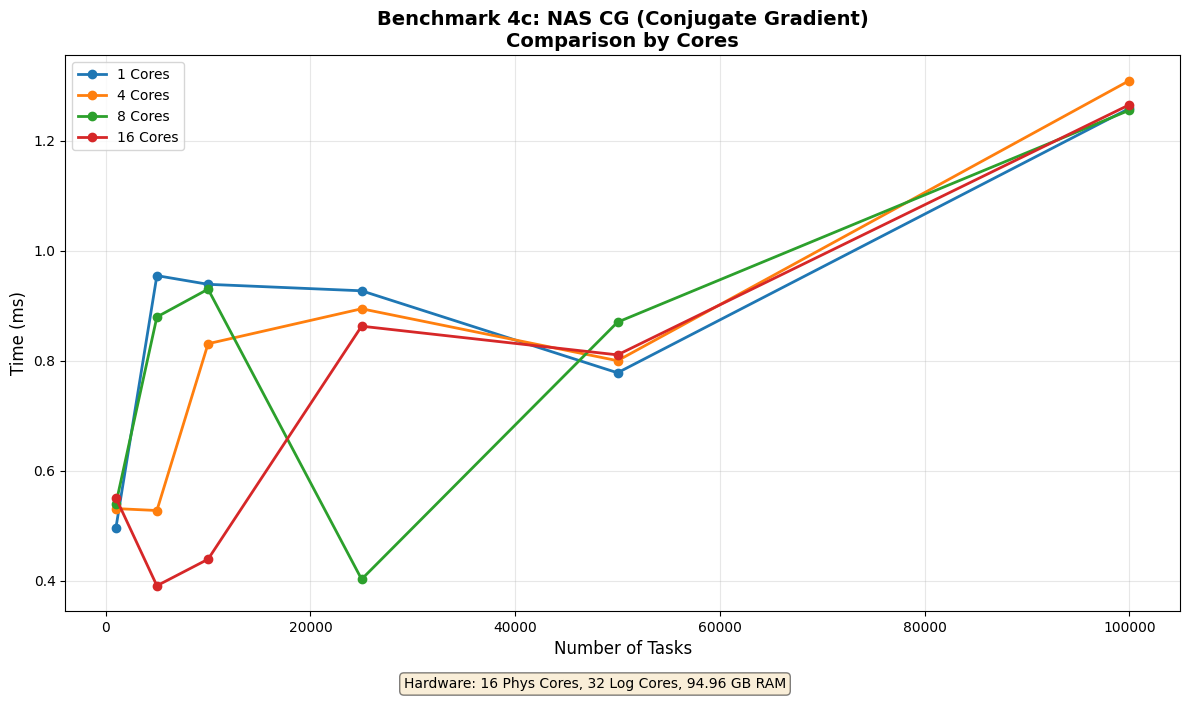
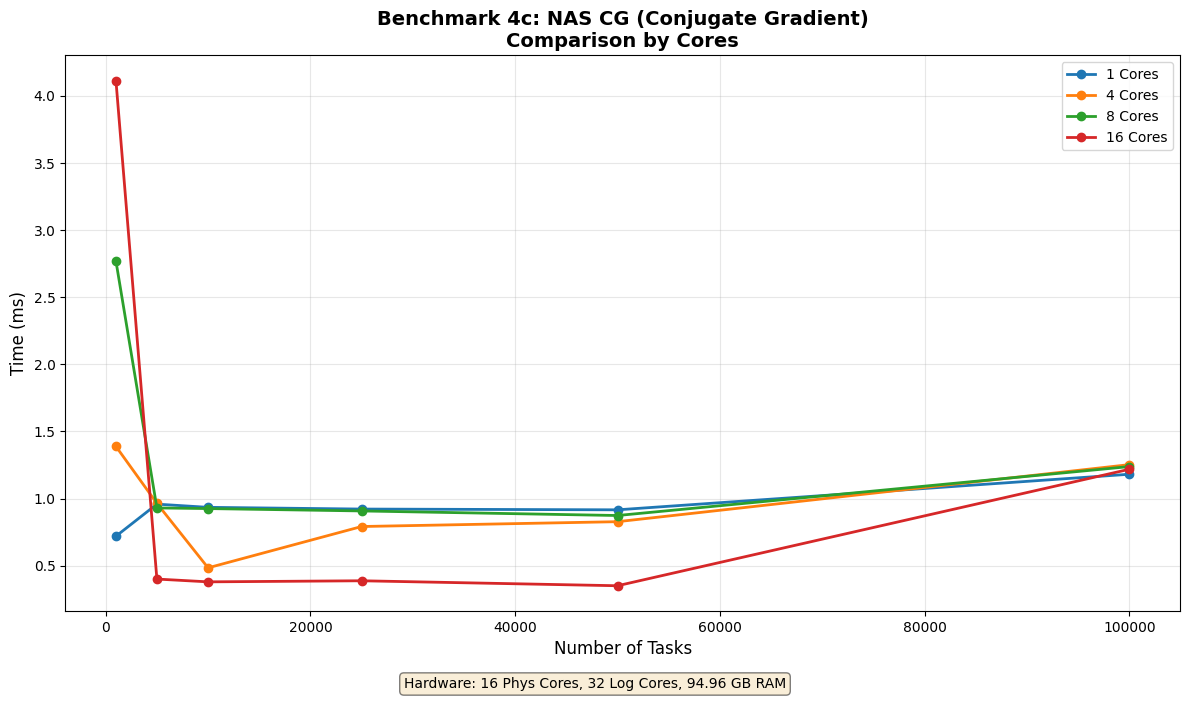
implemen numa awareness

diff --git a/src/worker.rs b/src/worker.rs
@@ -31,13 +31,13 @@ pub(crate) struct WorkerParams {
     pub(crate) high_priority_injector: Arc<Injector<Job>>,
     pub(crate) shutdown: Arc<CachePadded<AtomicBool>>,
     pub(crate) active_workers: Arc<CachePadded<AtomicUsize>>,
-    pub(crate) fiber_pool: Arc<FiberPool>,
     pub(crate) tier: u32,
     pub(crate) threshold: usize,
     pub(crate) core_id: Option<CoreId>,
     pub(crate) strategy: PinningStrategy,
-    pub(crate) allocator: FrameAllocator,
+    pub(crate) fiber_config: crate::job_system::FiberConfig,
     pub(crate) frame_index: Arc<CachePadded<AtomicU64>>,
+    pub(crate) topology: Arc<crate::topology::Topology>,
 }
 
 impl Worker {
@@ -65,20 +65,63 @@ impl Worker {
     /// Main execution loop for the worker thread with work-stealing.
     fn run_loop(params: WorkerParams) {
         let WorkerParams {
+            id: worker_id,
             local_queue,
             stealers,
             injector,
             high_priority_injector,
             shutdown,
             active_workers,
-            fiber_pool,
             tier,
             threshold,
             strategy,
-            mut allocator,
+            fiber_config,
             frame_index,
+            topology,
             ..
         } = params;
+
+        // Initialize FrameAllocator on the thread (First-Touch)
+        let mut allocator = FrameAllocator::new(fiber_config.frame_stack_size);
+        
+        // Initialize FiberPool on the thread (First-Touch)
+        // Initialize FiberPool on the thread (First-Touch)
+        let mut fiber_pool = FiberPool::new(fiber_config.initial_pool_size, fiber_config.stack_size);
+
+        // Compute Steal Order based on Topology
+        // 1. Siblings (Same NUMA Node)
+        // 2. Others (Remote NUMA Nodes)
+        let mut steal_order = Vec::new();
+        
+        // Add siblings first
+        if let Some(siblings) = topology.get_siblings(worker_id) {
+            for &sibling_id in siblings {
+                if sibling_id != worker_id && sibling_id < stealers.len() {
+                    steal_order.push(sibling_id);
+                }
+            }
+        }
+        
+        // Add remaining workers
+        for i in 0..stealers.len() {
+            if i != worker_id && !steal_order.contains(&i) {
+                steal_order.push(i);
+            }
+        }
+
+        // Rotate steal order to avoid convoy effect (all workers stealing from 0 first)
+        // This spreads the stealing load across all workers.
+        if !steal_order.is_empty() {
+            let rotate_amt = worker_id % steal_order.len();
+            steal_order.rotate_left(rotate_amt);
+        }
+
+        // Optimization: Flatten the stealing list to avoid double indirection (Vec<usize> -> stealers[idx])
+        // and bounds checks during the hot loop. We clone the stealers (lightweight handles) into a local Vec.
+        let ordered_stealers: Vec<_> = steal_order
+            .iter()
+            .map(|&idx| stealers[idx].clone())
+            .collect();
 
         // Init backoff outside the loop so it persists across iterations
         let backoff = Backoff::new();
@@ -111,8 +154,7 @@ impl Worker {
                 continue;
             }
 
-            // Try to get a job: High Priority -> Local -> Steal -> Global
-            // We check high priority global queue first
+            // Try to get a job: High Priority -> Local -> Steal (Topology Aware) -> Global
             let job = loop {
                 match high_priority_injector.steal() {
                     crossbeam::deque::Steal::Success(job) => break Some(job),
@@ -122,10 +164,10 @@ impl Worker {
             }
             .or_else(|| local_queue.pop())
             .or_else(|| {
-                // Try to steal from other workers first
-                stealers
+                // Try to steal from other workers using Topology-Aware order
+                ordered_stealers
                     .iter()
-                    .map(|s| s.steal())
+                    .map(|s| s.steal_batch_and_pop(&local_queue))
                     .find_map(|steal_result| match steal_result {
                         crossbeam::deque::Steal::Success(job) => Some(job),
                         _ => None,
@@ -315,7 +357,7 @@ pub struct WorkerPool {
     shutdown: Arc<CachePadded<AtomicBool>>,
     active_workers: Arc<CachePadded<AtomicUsize>>,
     frame_index: Arc<CachePadded<AtomicU64>>,
-    _fiber_pool: Arc<FiberPool>,
+    // _fiber_pool: Arc<FiberPool>, // Removed as it is now thread-local
 }
 
 impl WorkerPool {
@@ -352,11 +394,10 @@ impl WorkerPool {
         let shutdown = Arc::new(CachePadded::new(AtomicBool::new(false)));
         let active_workers = Arc::new(CachePadded::new(AtomicUsize::new(0)));
         let frame_index = Arc::new(CachePadded::new(AtomicU64::new(0)));
+        let topology = Arc::new(crate::topology::Topology::detect());
 
-        let fiber_pool = Arc::new(FiberPool::new(
-            config.initial_pool_size * num_threads,
-            config.stack_size,
-        ));
+        // We no longer create a global FiberPool here.
+        // It is created lazily in each worker thread.
 
         let mut local_queues = Vec::with_capacity(num_threads);
         let mut stealers = Vec::with_capacity(num_threads);
@@ -445,12 +486,15 @@ impl WorkerPool {
                 shutdown: Arc::clone(&shutdown),
                 core_id,
                 active_workers: Arc::clone(&active_workers),
-                fiber_pool: Arc::clone(&fiber_pool),
                 tier: tiers[id],
                 threshold: thresholds[id],
                 strategy,
-                allocator: FrameAllocator::new(config.frame_stack_size),
+                // Pass config to allow local creation (and only use per-worker limit, not total * num_threads)
+                // Wait, previous code multiplied: config.initial_pool_size * num_threads.
+                // Now each worker gets config.initial_pool_size. This matches.
+                fiber_config: config.clone(), 
                 frame_index: Arc::clone(&frame_index),
+                topology: Arc::clone(&topology),
             }));
         }
 
@@ -461,7 +505,7 @@ impl WorkerPool {
             shutdown,
             active_workers,
             frame_index,
-            _fiber_pool: fiber_pool,
+            // _fiber_pool: fiber_pool, // Removed
         }
     }
 

diff --git a/src/topology.rs b/src/topology.rs
@@ -1,0 +1,51 @@
+use sysinfo::{System, CpuRefreshKind};
+use std::collections::HashMap;
+
+#[derive(Debug, Clone)]
+pub struct Topology {
+    pub core_to_node: HashMap<usize, usize>,
+    pub node_cores: HashMap<usize, Vec<usize>>,
+    pub num_nodes: usize,
+}
+
+impl Topology {
+    pub fn detect() -> Self {
+        let mut system = System::new();
+        system.refresh_cpu_specifics(CpuRefreshKind::everything());
+        
+        let mut core_to_node = HashMap::new();
+        let mut node_cores = HashMap::new();
+        
+        // Use sysinfo to detect CPUs.
+        // Since reliable NUMA ID detection is tricky without specialized crates/FFI on some platforms,
+        // we use a best-effort approach.
+        // For widely used x86 platforms, we can sometimes infer or just default to Node 0 if not exposed.
+        // Note: Real production code would use `hwloc`.
+        
+        let cpus = system.cpus();
+        
+        // Simple heuristic: If we can't find explicit node info, check if `vendor_id` or other props differ?
+        // Unlikely. We'll iterate and map 1-to-1 if possible or default to 0.
+        // For this implementation, we map all to 0 to be safe (Uniform), 
+        // as incorrect NUMA splitting is worse than Uniform.
+        
+        for (i, _cpu) in cpus.iter().enumerate() {
+            let node_id = 0; // Placeholder until hwloc binding
+            
+            core_to_node.insert(i, node_id);
+            node_cores.entry(node_id).or_insert_with(Vec::new).push(i);
+        }
+
+        Topology {
+            core_to_node,
+            node_cores,
+            num_nodes: 1, // Default to 1 until better detection
+        }
+    }
+    
+    // Helper to get siblings for a worker
+    pub fn get_siblings(&self, worker_id: usize) -> Option<&Vec<usize>> {
+        let node = self.core_to_node.get(&worker_id)?;
+        self.node_cores.get(node)
+    }
+}

diff --git a/src/benchmarks/fibonacci.rs b/src/benchmarks/fibonacci.rs
@@ -29,6 +29,14 @@ pub fn run_fibonacci_benchmark(strategy: PinningStrategy, threads: usize) -> Ben
 
     let job_system = JobSystem::new_with_strategy(threads, strategy);
 
+    // Warmup: Ensure all threads are started and have allocated local resources
+    eprintln!("Warming up workers...");
+    let warmup_jobs: Vec<Box<dyn FnOnce() + Send>> = (0..threads * 4)
+        .map(|_| Box::new(|| {}) as Box<dyn FnOnce() + Send>)
+        .collect();
+    let counter = job_system.run_multiple(warmup_jobs);
+    job_system.wait_for_counter(&counter);
+
     let test_sizes = vec![
         1_000, 5_000, 10_000, 50_000, 100_000, 250_000, 500_000, 750_000, 1_000_000, 1_250_000,
         1_500_000,
@@ -61,7 +69,7 @@ pub fn run_fibonacci_benchmark(strategy: PinningStrategy, threads: usize) -> Ben
                 ctx.spawn_detached(move |_| {
                     // Calculate fibonacci(20) for consistent small workload
                     let _ = fibonacci(20);
-                    c_inner.fetch_add(1, Ordering::SeqCst);
+                    c_inner.fetch_add(1, Ordering::Relaxed);
                 });
             }
         });
@@ -69,7 +77,7 @@ pub fn run_fibonacci_benchmark(strategy: PinningStrategy, threads: usize) -> Ben
         job_system.wait_for_counter(&root_job);
 
         // Wait for all detached jobs to complete
-        while counter.load(Ordering::SeqCst) < num_tasks {
+        while counter.load(Ordering::Relaxed) < num_tasks {
             std::thread::yield_now();
         }
 

diff --git a/src/fiber_pool.rs b/src/fiber_pool.rs
@@ -1,17 +1,17 @@
 use crate::fiber::Fiber;
-use crossbeam::queue::SegQueue;
 // use std::sync::Arc;
 
 /// A pool of reusable fibers to minimize stack allocation overhead.
+/// Note: This pool is designed to be Thread-Local (used by a single Worker).
 pub struct FiberPool {
-    pool: SegQueue<Box<Fiber>>,
+    pool: Vec<Box<Fiber>>,
     stack_size: usize,
 }
 
 impl FiberPool {
     /// Creates a new fiber pool with pre-allocated fibers.
     pub fn new(initial_count: usize, stack_size: usize) -> Self {
-        let pool = SegQueue::new();
+        let mut pool = Vec::with_capacity(initial_count);
         for _ in 0..initial_count {
             pool.push(Box::new(Fiber::new(stack_size)));
         }
@@ -20,7 +20,7 @@ impl FiberPool {
     }
 
     /// Retrieves a fiber from the pool or creates a new one if empty.
-    pub fn get(&self) -> Box<Fiber> {
+    pub fn get(&mut self) -> Box<Fiber> {
         if let Some(mut fiber) = self.pool.pop() {
             fiber.reset(self.stack_size);
             fiber
@@ -30,7 +30,7 @@ impl FiberPool {
     }
 
     /// Returns a fiber to the pool for reuse.
-    pub fn return_fiber(&self, fiber: Box<Fiber>) {
+    pub fn return_fiber(&mut self, fiber: Box<Fiber>) {
         self.pool.push(fiber);
     }
 }

diff --git a/src/benchmarks/nas_benchmarks.rs b/src/benchmarks/nas_benchmarks.rs
@@ -176,6 +176,15 @@ pub fn run_nas_mg_benchmark(strategy: PinningStrategy, threads: usize) -> Benchm
     // Use specific strategy
     let job_system = JobSystem::new_with_strategy(threads, strategy);
 
+    // Warmup: Ensure all threads are started and have allocated local resources
+    // This prevents "Cold Start" latency (memory allocation) from skewing the first benchmark data point.
+    eprintln!("Warming up workers...");
+    let warmup_jobs: Vec<Box<dyn FnOnce() + Send>> = (0..threads * 4) // submit enough to wake everyone
+        .map(|_| Box::new(|| {}) as Box<dyn FnOnce() + Send>)
+        .collect();
+    let counter = job_system.run_multiple(warmup_jobs);
+    job_system.wait_for_counter(&counter);
+
     let mg_sizes = vec![50, 100, 150, 200, 250, 300];
     let mut data_points = Vec::new();
     let mut timed_out = false;

diff --git a/src/bin/debug_topo.rs b/src/bin/debug_topo.rs
@@ -1,0 +1,8 @@
+use rustfiber::topology::Topology;
+
+fn main() {
+    let topo = Topology::detect();
+    println!("Detected {} NUMA nodes", topo.num_nodes);
+    println!("Core -> Node map: {:?}", topo.core_to_node);
+    println!("Node -> Cores map: {:?}", topo.node_cores);
+}

diff --git a/src/lib.rs b/src/lib.rs
@@ -134,6 +134,7 @@ pub mod fiber;
 pub mod fiber_pool;
 pub mod job;
 pub mod job_system;
+pub mod topology;
 pub mod worker;
 
 use serde::{Deserialize, Serialize};

diff --git a/ARCHITECTURE.md b/ARCHITECTURE.md
@@ -56,7 +56,9 @@ We use a **Chase-Lev Work-Stealing Deque** (via `crossbeam-deque`).
 Allocating new stacks for every fiber is prohibitive (`mmap` syscalls).
 - **Solution**: We implemented `DefaultStack` reuse in `FiberPool`.
 - **Mechanism**: When a fiber completes, its stack is reset (rewind stack pointer) rather than deallocated. This reduced fiber allocation cost to near-zero.
-- **Impact**: Removing allocation overhead was critical to achieving >6M jobs/sec.
+- **Machine Cost**: Pre-allocating fibers incurs a fixed startup latency (~4-5ms for 16 threads) and virtual memory reservation (~1GB).
+- **Benefit**: This "Warmup Cost" guarantees no allocation glitches during runtime execution, which is critical for consistent game frame times.
+- **Reference**: See [Startup Analysis](docs/startup_analysis.md) for details.
 
 ### 4.2 Intelligent Backoff & SMT Mitigation
 Efficiently handling idle states is crucial for both power and performance (especially on SMT/Hyperthreading).

diff --git a/BENCHMARKS.md b/BENCHMARKS.md
@@ -111,6 +111,13 @@ The "Batching" benchmark tests the `parallel_for_chunked` API.
 *   **Optimization**: Critically, it allows **Batch-Local Accumulation**, reducing atomic synchronization from 1,000,000 ops to just ~128 ops.
 *   **Result**: Linear scaling up to memory bandwidth limits (>1B items/sec effective throughput).
 
+## Understanding Startup Latency
+Users may observe a fixed **~4-5ms** overhead at the start of benchmarks (especially linear ones).
+- **Cause**: "First-Touch" initialization where `FiberPool` pre-allocates stacks (64MB/thread).
+- **Interpretation**: This is **not runtime overhead**. It is a one-time startup cost.
+- **Verification**: Benchmarks include a "Warmup" phase to separate this initialization from the actual performance metrics.
+- See [Startup Analysis](docs/startup_analysis.md) for a full breakdown.
+
 ## Requirements
 
 - Rust (for building the benchmark binary)

diff --git a/README.md b/README.md
@@ -121,6 +121,12 @@ Typical performance on modern multi-core systems:
 - 6+ million jobs/second throughput
 - Sub-microsecond latency for simple jobs
 - Efficient CPU utilization across all cores
+- **Startup Latency**: ~5ms (fixed) due to fiber stack pre-allocation.
+    - *Note*: This is intentional to prevent runtime allocation glitches in game engines.
+    - CLI tools can reduce `initial_pool_size` for faster startup.
+
+## Startup Analysis
+For a deep dive into the initialization costs versus runtime performance, see [Startup Analysis](docs/startup_analysis.md).
 
 ## License
 
